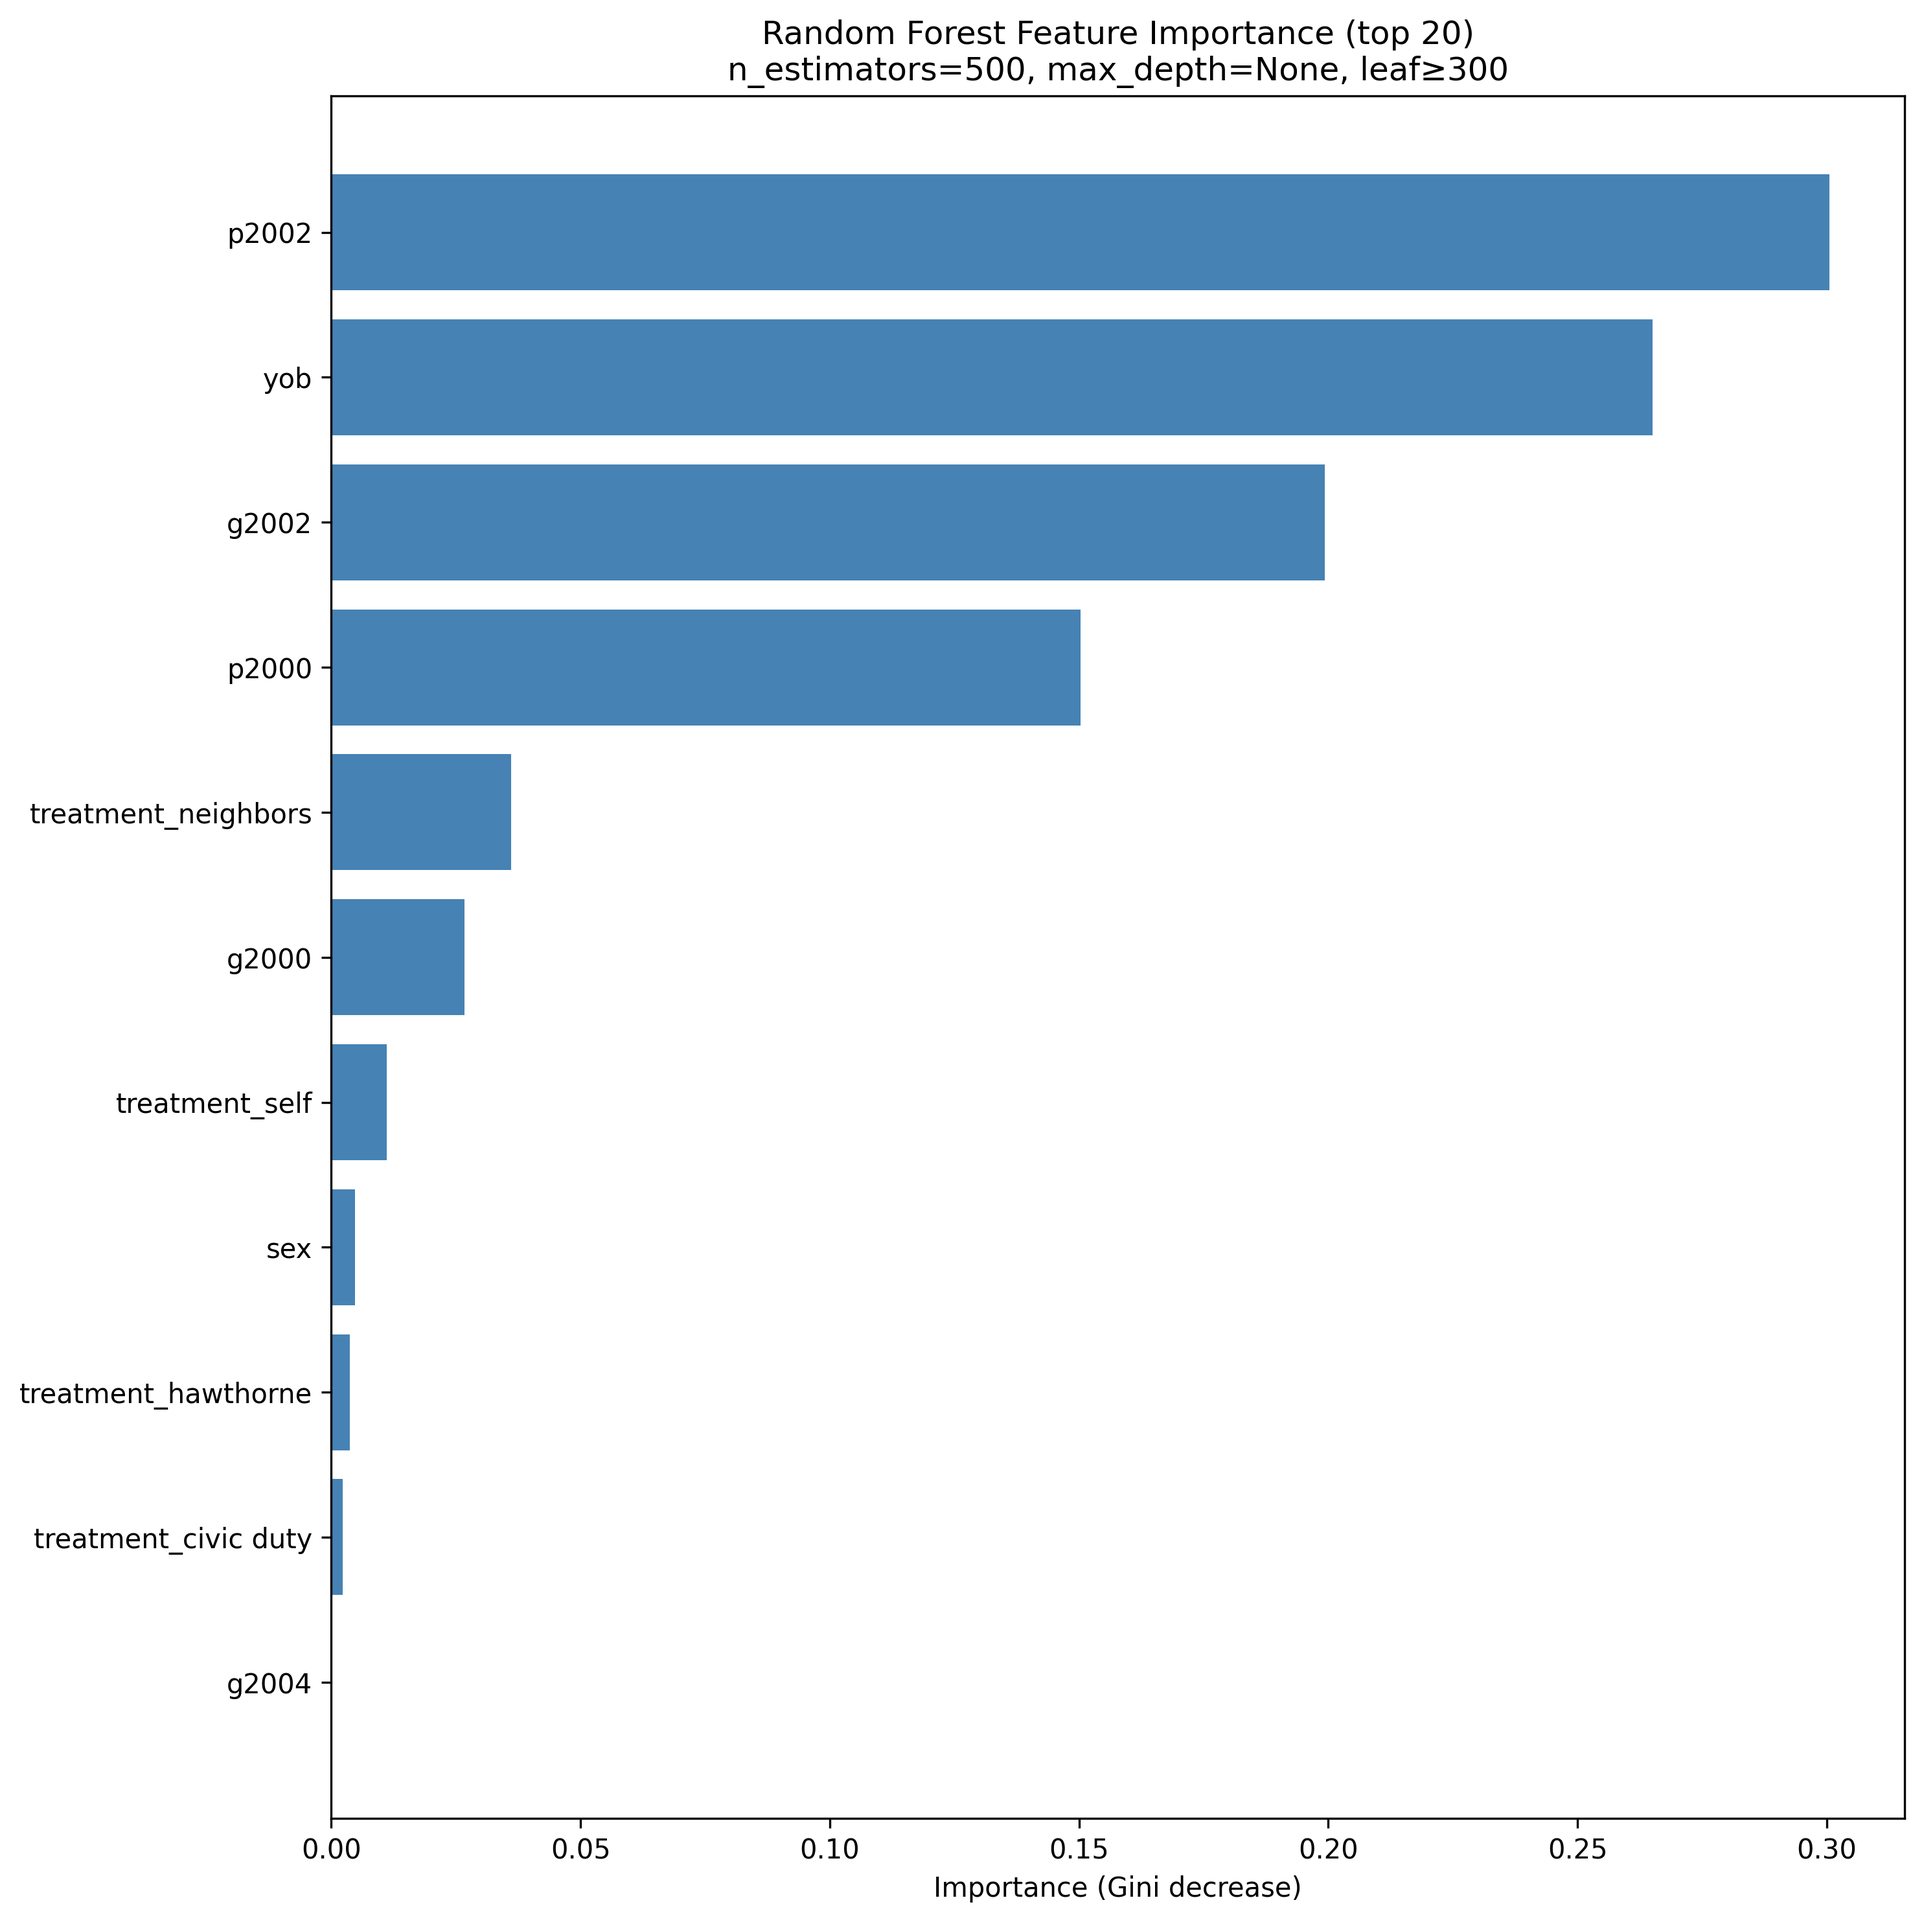
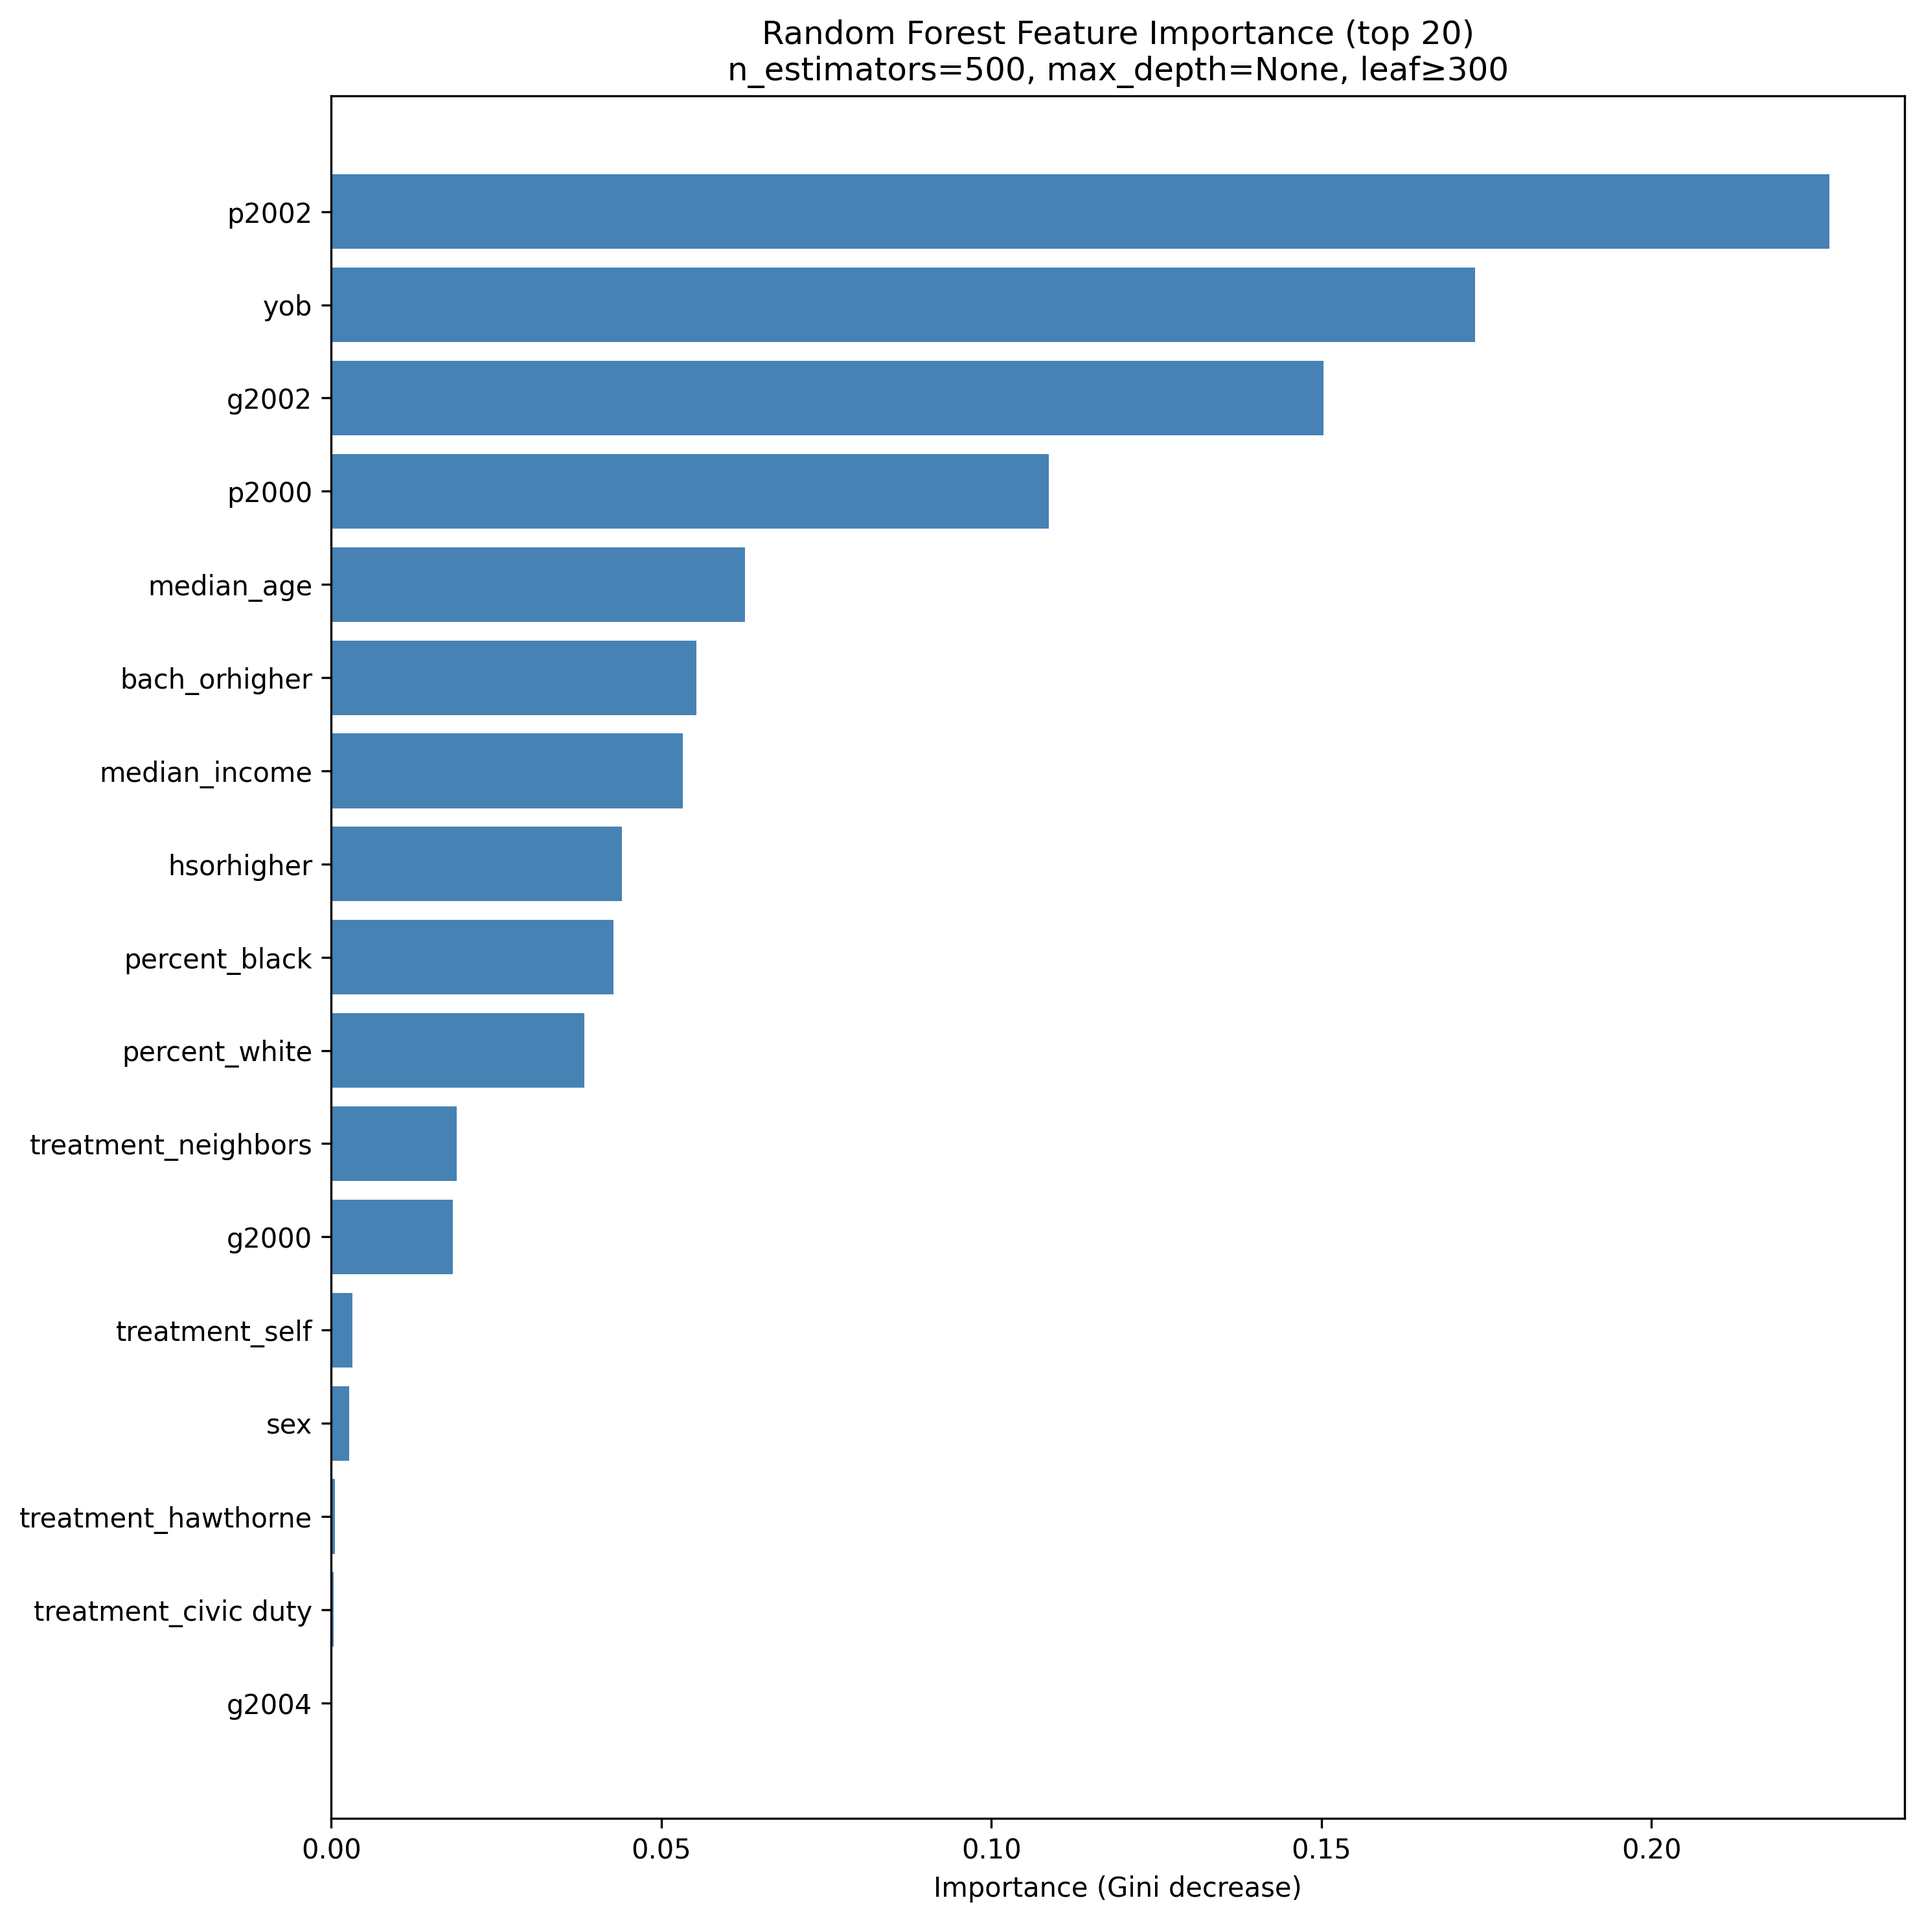
report 4 done

diff --git a/code/logloss_comparison.py b/code/logloss_comparison.py
@@ -1,55 +1,138 @@
 import numpy as np
 import pandas as pd
-from typing import Literal, Optional
+import matplotlib.pyplot as plt
 from bagging import bagging_classifier
 from boosting import gradient_boosting_classifier
-from utils import get_project_paths, select_features, prepare_features
 from tree_forest import random_forest_classifier, classification_tree
+from utils import get_project_paths
 
 def compare_classifiers():
     """
-    Compare Bagging, Gradient Boosting, Random Forest, and Decision Tree classifiers
-    using accuracy and log-loss metrics on the same train/test split.
-    
-    Returns
-    -------
-    pd.DataFrame
-        DataFrame summarizing test accuracy and log-loss for each classifier
+    Compare Bagging, Gradient Boosting, Random Forest, and Decision Tree classifiers.
+    Outputs LaTeX table and bar plot.
     """
+    paths = get_project_paths()
     results = []
 
-    # Bagging Classifier
+    # Run all classifiers
+    print("Running Bagging Classifier...")
     bagging_results = bagging_classifier()
     results.append({
         "Model": "Bagging",
-        "Test Accuracy": bagging_results["test_accuracy"],
-        "Test Log-Loss": bagging_results["test_logloss"]
+        "Accuracy": bagging_results["test_accuracy"],
+        "Log-Loss": bagging_results["test_logloss"]
     })
 
-    # Gradient Boosting Classifier
+    print("\nRunning Gradient Boosting Classifier...")
     boosting_results = gradient_boosting_classifier()
     results.append({
         "Model": "Gradient Boosting",
-        "Test Accuracy": boosting_results["test_accuracy"],
-        "Test Log-Loss": boosting_results["test_logloss"]
+        "Accuracy": boosting_results["test_accuracy"],
+        "Log-Loss": boosting_results["test_logloss"]
     })
 
-    # Random Forest Classifier
+    print("\nRunning Random Forest Classifier...")
     rf_results = random_forest_classifier()
     results.append({
         "Model": "Random Forest",
-        "Test Accuracy": rf_results["test_accuracy"],
-        "Test Log-Loss": rf_results["test_logloss"]
+        "Accuracy": rf_results["test_accuracy"],
+        "Log-Loss": rf_results["test_logloss"]
     })
 
-    # Decision Tree Classifier
+    print("\nRunning Decision Tree Classifier...")
     dt_results = classification_tree()
     results.append({
         "Model": "Decision Tree",
-        "Test Accuracy": dt_results["test_accuracy"],
-        "Test Log-Loss": dt_results["test_logloss"]
+        "Accuracy": dt_results["test_accuracy"],
+        "Log-Loss": dt_results["test_logloss"]
     })
-    print(results)
-    return pd.DataFrame(results)
+    
+    # Create DataFrame
+    df = pd.DataFrame(results)
+    
+    # Find best models
+    best_acc_idx = df['Accuracy'].idxmax()
+    best_loss_idx = df['Log-Loss'].idxmin()
+    
+    # Generate LaTeX table
+    latex_output = "\\begin{table}[h]\n"
+    latex_output += "\\centering\n"
+    latex_output += "\\caption{Error Comparison for Bagging, Boosting, Tree, and Random Forest}\n"
+    latex_output += "\\label{tab:model_comparison}\n"
+    latex_output += "\\begin{tabular}{lcc}\n"
+    latex_output += "\\hline\n"
+    latex_output += "\\textbf{Model} & \\textbf{Accuracy} & \\textbf{Log-Loss} \\\\\n"
+    latex_output += "\\hline\n"
+    
+    for idx, row in df.iterrows():
+        model_name = row['Model']
+        accuracy = row['Accuracy']
+        logloss = row['Log-Loss']
+        
+        # Bold the best values
+        acc_str = f"\\textbf{{{accuracy:.4f}}}" if idx == best_acc_idx else f"{accuracy:.4f}"
+        loss_str = f"\\textbf{{{logloss:.4f}}}" if idx == best_loss_idx else f"{logloss:.4f}"
+        
+        latex_output += f"{model_name} & {acc_str} & {loss_str} \\\\\n"
+    
+    latex_output += "\\hline\n"
+    latex_output += "\\end{tabular}\n"
+    latex_output += "\\end{table}\n"
+    
+    # Save LaTeX table
+    with open(paths['tables'] + 'model_comparison.tex', 'w') as f:
+        f.write(latex_output)
+    
+    print("\n" + "="*70)
+    print("LATEX TABLE SAVED TO: Output/Tables/model_comparison.tex")
+    print("="*70 + "\n")
+    print(latex_output)
+    print("="*70)
+    
+    # Create comparison plot
+    fig, (ax1, ax2) = plt.subplots(1, 2, figsize=(14, 6))
+    
+    # Plot 1: Accuracy
+    colors_acc = ['steelblue' if i != best_acc_idx else 'darkgreen' for i in range(len(df))]
+    ax1.bar(df['Model'], df['Accuracy'], color=colors_acc, alpha=0.8, edgecolor='black')
+    ax1.set_ylabel('Accuracy', fontsize=12, fontweight='bold')
+    ax1.set_title('Test Accuracy Comparison', fontsize=14, fontweight='bold')
+    ax1.set_ylim([df['Accuracy'].min() * 0.95, df['Accuracy'].max() * 1.02])
+    ax1.tick_params(axis='x', rotation=45)
+    ax1.grid(axis='y', alpha=0.3)
+    
+    # Add value labels on bars
+    for i, (idx, row) in enumerate(df.iterrows()):
+        ax1.text(i, row['Accuracy'], f"{row['Accuracy']:.4f}", 
+                ha='center', va='bottom', fontweight='bold', fontsize=10)
+    
+    # Plot 2: Log-Loss (lower is better)
+    colors_loss = ['coral' if i != best_loss_idx else 'darkgreen' for i in range(len(df))]
+    ax2.bar(df['Model'], df['Log-Loss'], color=colors_loss, alpha=0.8, edgecolor='black')
+    ax2.set_ylabel('Log-Loss', fontsize=12, fontweight='bold')
+    ax2.set_title('Test Log-Loss Comparison (Lower is Better)', fontsize=14, fontweight='bold')
+    ax2.set_ylim([df['Log-Loss'].min() * 0.9, df['Log-Loss'].max() * 1.05])
+    ax2.tick_params(axis='x', rotation=45)
+    ax2.grid(axis='y', alpha=0.3)
+    
+    # Add value labels on bars
+    for i, (idx, row) in enumerate(df.iterrows()):
+        ax2.text(i, row['Log-Loss'], f"{row['Log-Loss']:.4f}", 
+                ha='center', va='bottom', fontweight='bold', fontsize=10)
+    
+    plt.tight_layout()
+    plt.savefig(paths['plots'] + 'model_comparison.png', dpi=300, bbox_inches='tight')
+    plt.close()
+    
+    print(f"\nPLOT SAVED TO: {paths['plots']}model_comparison.png")
+    
+    # Print analysis
+    best_model = df.loc[best_acc_idx, 'Model']
+    print("\nANALYSIS:")
+    print(f"Ensemble methods outperform the single Decision Tree, with {best_model} "
+          f"achieving the highest accuracy. This demonstrates how combining multiple weak "
+          f"learners reduces variance and improves model performance.")
+    
+    return df
 
 compare_classifiers()

diff --git a/code/tree_forest.py b/code/tree_forest.py
@@ -145,7 +145,7 @@ def classification_tree(
     min_samples_leaf: int = 300,
     criterion: str = "gini",
     class_weight: str = "balanced",
-    random_state: int = 0,
+    random_state: int = 42,
     save_plot: bool = True,
     feature_strategy: Literal["minimal", "core", "all"] = "core",
     sample_for_fit: Optional[int] = None,
@@ -246,10 +246,10 @@ def random_forest_classifier(
     max_depth: Optional[int] = None,
     min_samples_leaf: int = 300,
     max_features: str = "sqrt",
-    feature_strategy: Literal["minimal", "core", "all"] = "minimal",
+    feature_strategy: Literal["minimal", "core", "all"] = "core",
     sample_for_fit: Optional[int] = None,
     class_weight: Optional[str] = "balanced",
-    random_state: int = 0,
+    random_state: int = 42,
     top_n: int = 20,
     save_plot: bool = True,
 ) -> dict:

diff --git a/Output/Tables/regression_table.tex b/Output/Tables/regression_table.tex
@@ -5,7 +5,7 @@
 \textbf{Model:}                &       OLS        & \textbf{  Adj. R-squared:    } &      0.054   \\
 \textbf{Method:}               &  Least Squares   & \textbf{  F-statistic:       } &      2245.   \\
 \textbf{Date:}                 & Tue, 30 Sep 2025 & \textbf{  Prob (F-statistic):} &      0.00    \\
-\textbf{Time:}                 &     11:26:19     & \textbf{  Log-Likelihood:    } & -2.1513e+05  \\
+\textbf{Time:}                 &     13:01:09     & \textbf{  Log-Likelihood:    } & -2.1513e+05  \\
 \textbf{No. Observations:}     &      344084      & \textbf{  AIC:               } &  4.303e+05   \\
 \textbf{Df Residuals:}         &      344073      & \textbf{  BIC:               } &  4.304e+05   \\
 \textbf{Df Model:}             &          10      & \textbf{                     } &              \\

diff --git a/Output/Tables/model_comparison.tex b/Output/Tables/model_comparison.tex
@@ -1,0 +1,15 @@
+\begin{table}[h]
+\centering
+\caption{Error Comparison for Bagging, Boosting, Tree, and Random Forest}
+\label{tab:model_comparison}
+\begin{tabular}{lcc}
+\hline
+\textbf{Model} & \textbf{Accuracy} & \textbf{Log-Loss} \\
+\hline
+Bagging & 0.6174 & 0.6390 \\
+Gradient Boosting & \textbf{0.7019} & \textbf{0.5751} \\
+Random Forest & 0.6074 & 0.6442 \\
+Decision Tree & 0.5610 & 0.6617 \\
+\hline
+\end{tabular}
+\end{table}

diff --git a/code/bagging.py b/code/bagging.py
@@ -15,7 +15,7 @@ def bagging_classifier(
     max_features: float = 1.0,
     max_depth: Optional[int] = None,
     min_samples_leaf: int = 200,
-    feature_strategy: Literal["minimal", "core", "all"] = "minimal",
+    feature_strategy: Literal["minimal", "core", "all"] = "core",
     random_state: int = 42,
     class_weight: Optional[str] = "balanced",
 ) -> dict:

diff --git a/code/boosting.py b/code/boosting.py
@@ -15,7 +15,7 @@ def gradient_boosting_classifier(
     max_depth: int = 3,
     min_samples_leaf: int = 200,
     subsample: float = 1.0,
-    feature_strategy: Literal["minimal", "core", "all"] = "minimal",
+    feature_strategy: Literal["minimal", "core", "all"] = "core",
     random_state: int = 42,
 ) -> dict:
     """
